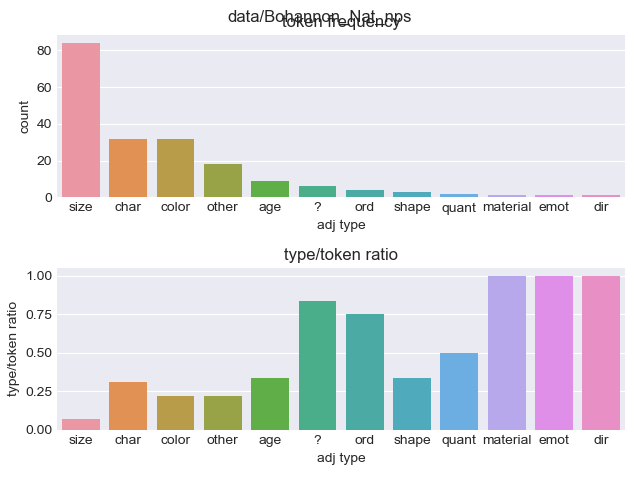
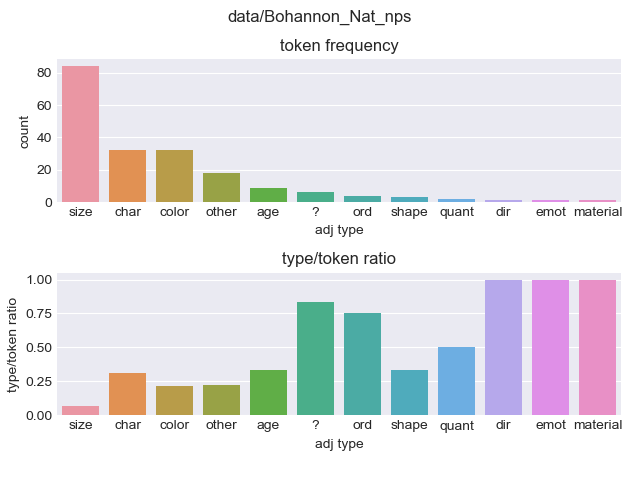
fix suptitle positioning

diff --git a/3_analyze.py b/3_analyze.py
@@ -32,7 +32,7 @@ def main(args):
   axs[1].set_xlabel("adj type")
   axs[1].set_ylabel("type/token ratio")
 
-  plt.tight_layout()
+  plt.tight_layout(rect=[0, 0.03, 1, 0.95])
 
   if args.out:
     plt.savefig(args.out)
